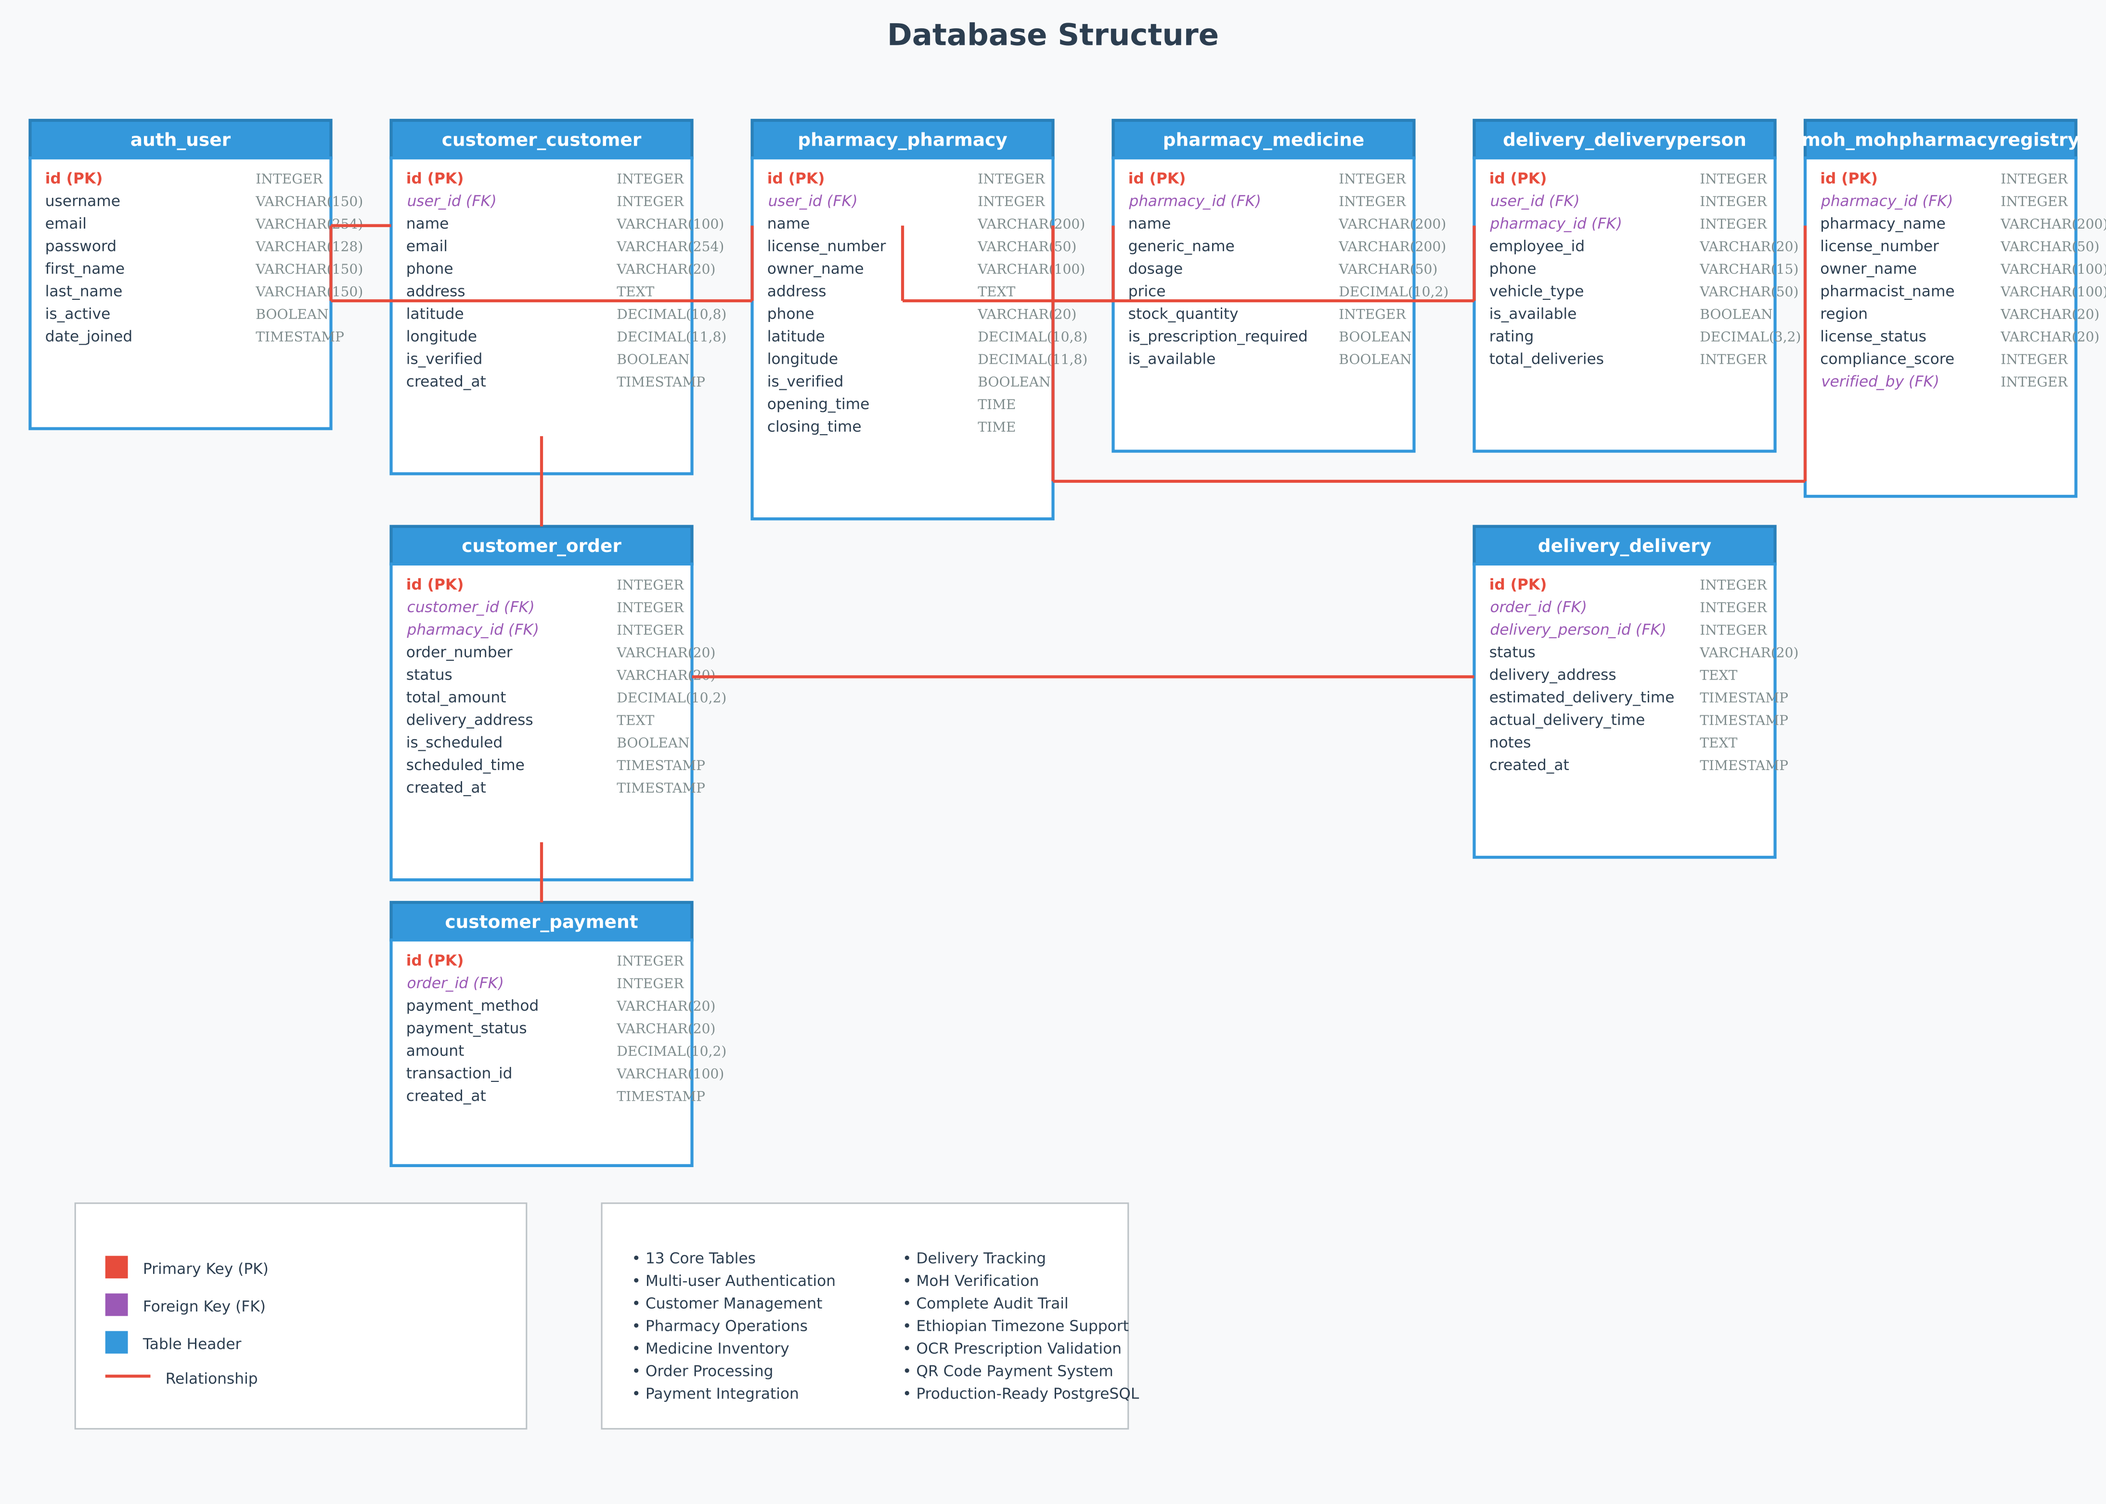
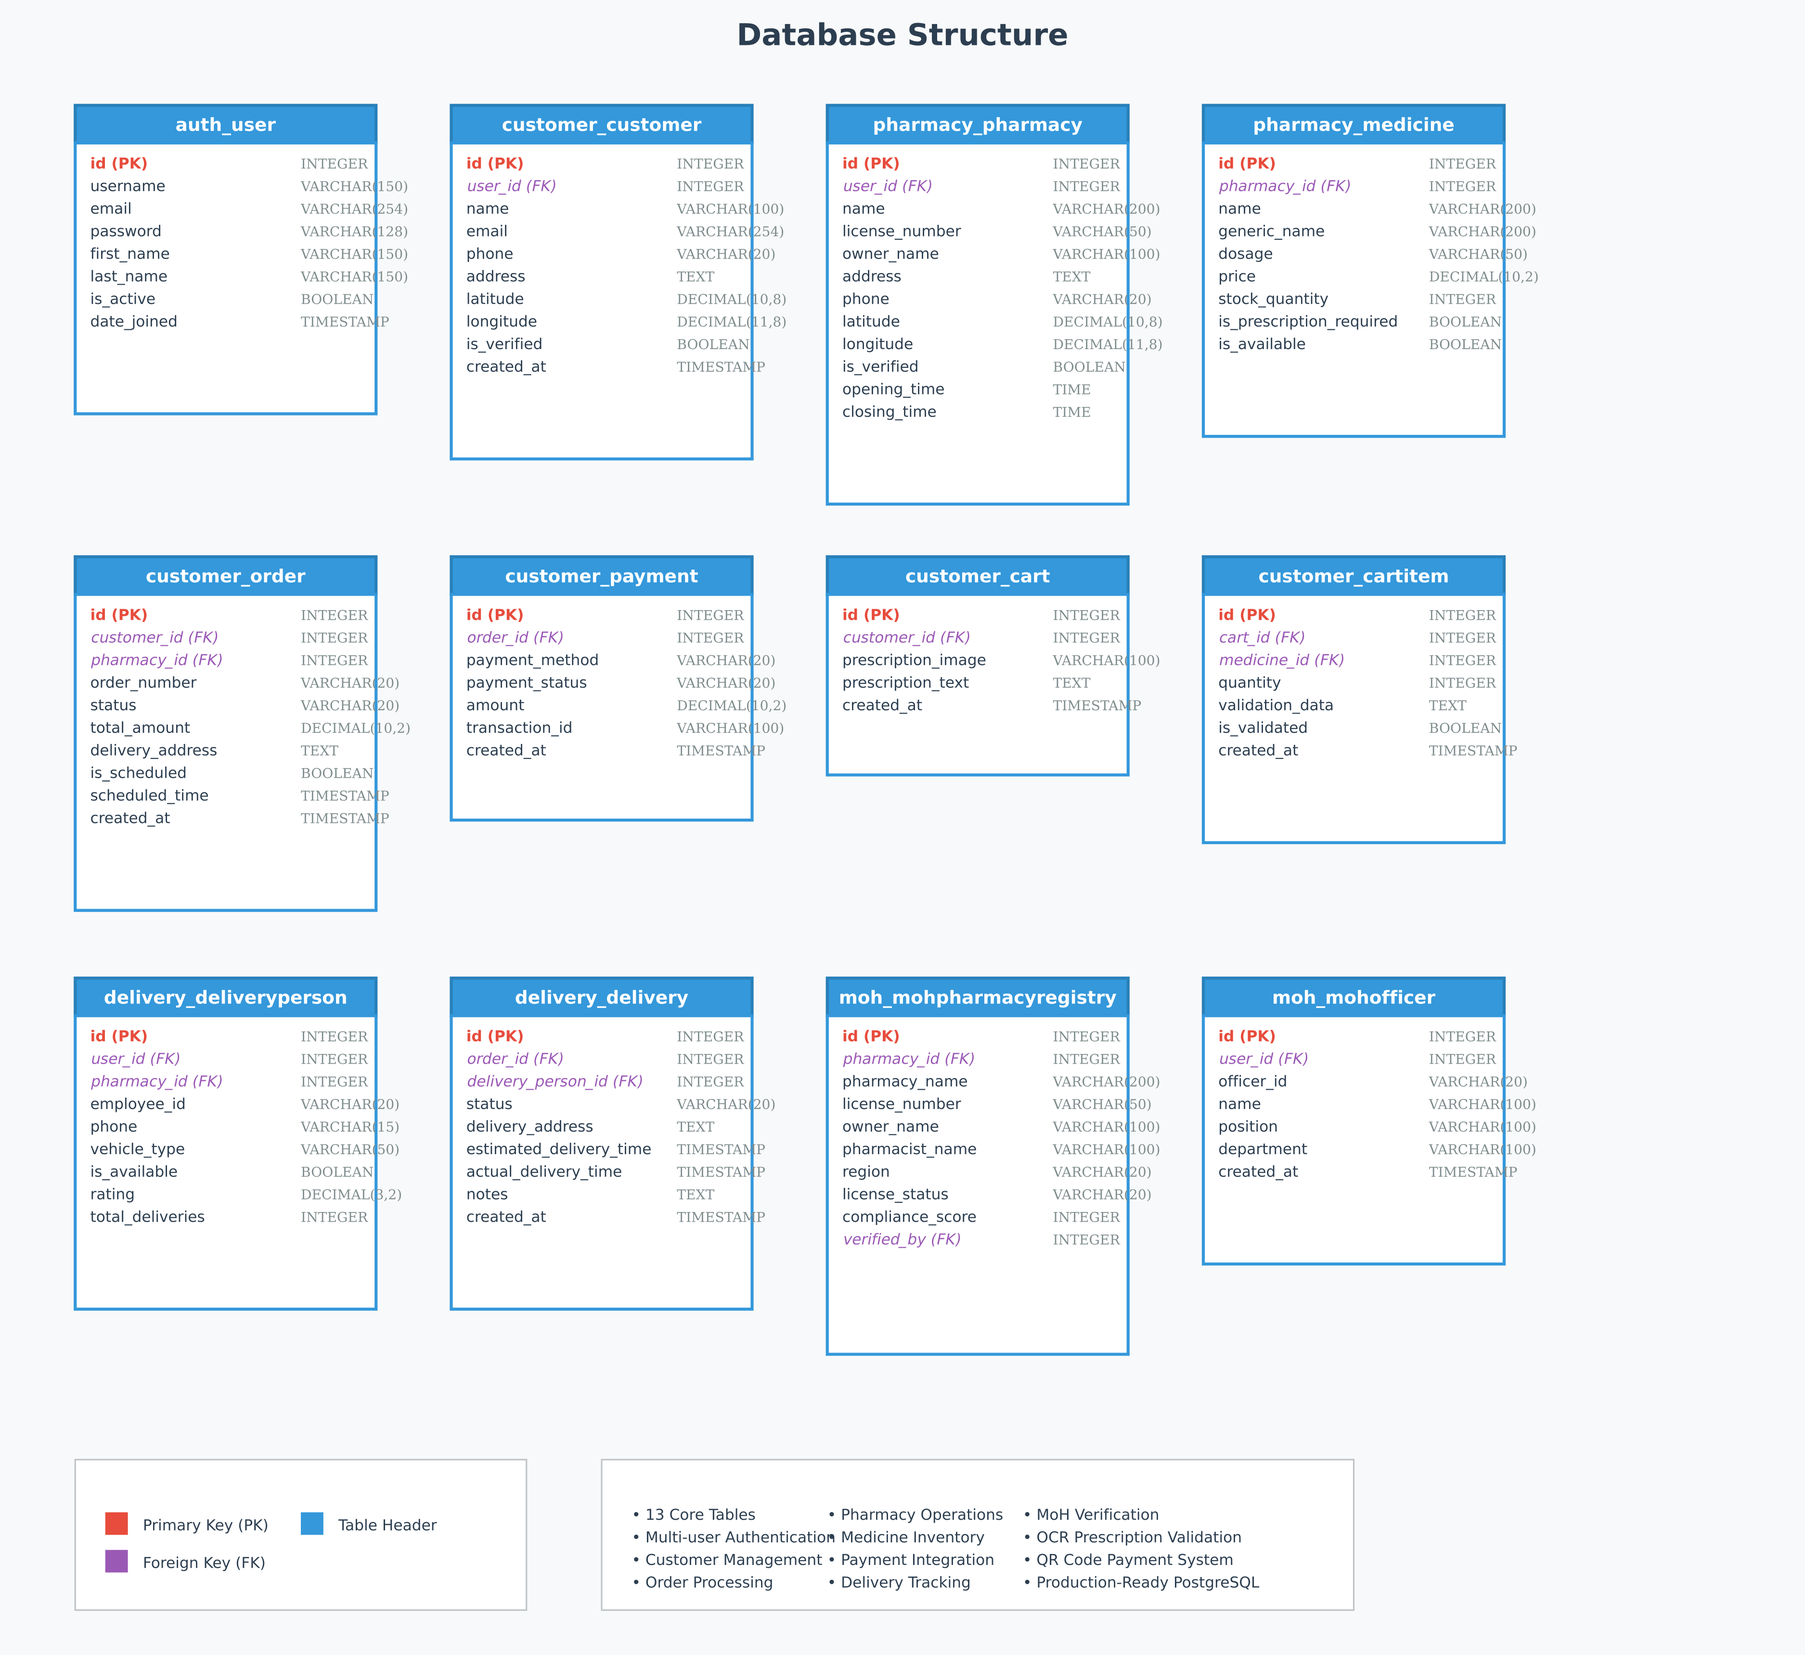
Adjust database diagram for improved clarity and proper table alignment
Refactor database SVG generation: adjust canvas size, table positions, and add customer_cart table.

Replit-Commit-Author: Agent
Replit-Commit-Session-Id: 049bb483-77e7-4104-a8ac-e9cb16096b01
Replit-Commit-Screenshot-Url: https://storage.googleapis.com/screenshot-production-us-central1/099855aa-fdc1-4c7a-b841-b0aadc4a57d0/953d0f03-541a-41b2-b32b-20188949d618.jpg

diff --git a/database_design_svg.py b/database_design_svg.py
@@ -9,7 +9,7 @@ def generate_database_svg():
     
     # SVG header
     svg_content = '''<?xml version="1.0" encoding="UTF-8"?>
-<svg width="1400" height="1000" xmlns="http://www.w3.org/2000/svg">
+<svg width="1200" height="1100" xmlns="http://www.w3.org/2000/svg">
   <defs>
     <style>
       .table-header { fill: #3498db; stroke: #2980b9; stroke-width: 2; }
@@ -19,20 +19,20 @@ def generate_database_svg():
       .primary-key { fill: #e74c3c; font-weight: bold; }
       .foreign-key { fill: #9b59b6; font-style: italic; }
       .field-type { fill: #7f8c8d; font-size: 9px; }
-      .connection-line { stroke: #e74c3c; stroke-width: 2; }
       .title { font-family: Arial, sans-serif; font-size: 20px; font-weight: bold; fill: #2c3e50; }
       .subtitle { font-family: Arial, sans-serif; font-size: 12px; fill: #7f8c8d; }
     </style>
   </defs>
   
   <!-- Background -->
-  <rect width="1400" height="1000" fill="#f8f9fa"/>
+  <rect width="1200" height="1100" fill="#f8f9fa"/>
   
   <!-- Title -->
-  <text x="700" y="30" text-anchor="middle" class="title">Database Structure</text>
+  <text x="600" y="30" text-anchor="middle" class="title">Database Structure</text>
   
+  <!-- Row 1 - User Management Tables -->
   <!-- auth_user table -->
-  <g transform="translate(20,80)">
+  <g transform="translate(50,70)">
     <rect width="200" height="25" class="table-header"/>
     <text x="100" y="17" text-anchor="middle" class="table-text">auth_user</text>
     <rect y="25" width="200" height="180" class="table-body"/>
@@ -55,7 +55,7 @@ def generate_database_svg():
   </g>
   
   <!-- customer_customer table -->
-  <g transform="translate(260,80)">
+  <g transform="translate(300,70)">
     <rect width="200" height="25" class="table-header"/>
     <text x="100" y="17" text-anchor="middle" class="table-text">customer_customer</text>
     <rect y="25" width="200" height="210" class="table-body"/>
@@ -82,7 +82,7 @@ def generate_database_svg():
   </g>
   
   <!-- pharmacy_pharmacy table -->
-  <g transform="translate(500,80)">
+  <g transform="translate(550,70)">
     <rect width="200" height="25" class="table-header"/>
     <text x="100" y="17" text-anchor="middle" class="table-text">pharmacy_pharmacy</text>
     <rect y="25" width="200" height="240" class="table-body"/>
@@ -113,7 +113,7 @@ def generate_database_svg():
   </g>
   
   <!-- pharmacy_medicine table -->
-  <g transform="translate(740,80)">
+  <g transform="translate(800,70)">
     <rect width="200" height="25" class="table-header"/>
     <text x="100" y="17" text-anchor="middle" class="table-text">pharmacy_medicine</text>
     <rect y="25" width="200" height="195" class="table-body"/>
@@ -137,8 +137,9 @@ def generate_database_svg():
     <text x="150" y="162" class="field-type">BOOLEAN</text>
   </g>
   
+  <!-- Row 2 - Order Management Tables -->
   <!-- customer_order table -->
-  <g transform="translate(260,350)">
+  <g transform="translate(50,370)">
     <rect width="200" height="25" class="table-header"/>
     <text x="100" y="17" text-anchor="middle" class="table-text">customer_order</text>
     <rect y="25" width="200" height="210" class="table-body"/>
@@ -165,7 +166,7 @@ def generate_database_svg():
   </g>
   
   <!-- customer_payment table -->
-  <g transform="translate(260,600)">
+  <g transform="translate(300,370)">
     <rect width="200" height="25" class="table-header"/>
     <text x="100" y="17" text-anchor="middle" class="table-text">customer_payment</text>
     <rect y="25" width="200" height="150" class="table-body"/>
@@ -185,8 +186,47 @@ def generate_database_svg():
     <text x="150" y="132" class="field-type">TIMESTAMP</text>
   </g>
   
+  <!-- customer_cart table -->
+  <g transform="translate(550,370)">
+    <rect width="200" height="25" class="table-header"/>
+    <text x="100" y="17" text-anchor="middle" class="table-text">customer_cart</text>
+    <rect y="25" width="200" height="120" class="table-body"/>
+    <text x="10" y="42" class="field-text primary-key">id (PK)</text>
+    <text x="150" y="42" class="field-type">INTEGER</text>
+    <text x="10" y="57" class="field-text foreign-key">customer_id (FK)</text>
+    <text x="150" y="57" class="field-type">INTEGER</text>
+    <text x="10" y="72" class="field-text">prescription_image</text>
+    <text x="150" y="72" class="field-type">VARCHAR(100)</text>
+    <text x="10" y="87" class="field-text">prescription_text</text>
+    <text x="150" y="87" class="field-type">TEXT</text>
+    <text x="10" y="102" class="field-text">created_at</text>
+    <text x="150" y="102" class="field-type">TIMESTAMP</text>
+  </g>
+  
+  <!-- customer_cartitem table -->
+  <g transform="translate(800,370)">
+    <rect width="200" height="25" class="table-header"/>
+    <text x="100" y="17" text-anchor="middle" class="table-text">customer_cartitem</text>
+    <rect y="25" width="200" height="165" class="table-body"/>
+    <text x="10" y="42" class="field-text primary-key">id (PK)</text>
+    <text x="150" y="42" class="field-type">INTEGER</text>
+    <text x="10" y="57" class="field-text foreign-key">cart_id (FK)</text>
+    <text x="150" y="57" class="field-type">INTEGER</text>
+    <text x="10" y="72" class="field-text foreign-key">medicine_id (FK)</text>
+    <text x="150" y="72" class="field-type">INTEGER</text>
+    <text x="10" y="87" class="field-text">quantity</text>
+    <text x="150" y="87" class="field-type">INTEGER</text>
+    <text x="10" y="102" class="field-text">validation_data</text>
+    <text x="150" y="102" class="field-type">TEXT</text>
+    <text x="10" y="117" class="field-text">is_validated</text>
+    <text x="150" y="117" class="field-type">BOOLEAN</text>
+    <text x="10" y="132" class="field-text">created_at</text>
+    <text x="150" y="132" class="field-type">TIMESTAMP</text>
+  </g>
+  
+  <!-- Row 3 - Delivery & MoH Tables -->
   <!-- delivery_deliveryperson table -->
-  <g transform="translate(980,80)">
+  <g transform="translate(50,650)">
     <rect width="200" height="25" class="table-header"/>
     <text x="100" y="17" text-anchor="middle" class="table-text">delivery_deliveryperson</text>
     <rect y="25" width="200" height="195" class="table-body"/>
@@ -211,7 +251,7 @@ def generate_database_svg():
   </g>
   
   <!-- delivery_delivery table -->
-  <g transform="translate(980,350)">
+  <g transform="translate(300,650)">
     <rect width="200" height="25" class="table-header"/>
     <text x="100" y="17" text-anchor="middle" class="table-text">delivery_delivery</text>
     <rect y="25" width="200" height="195" class="table-body"/>
@@ -236,58 +276,56 @@ def generate_database_svg():
   </g>
   
   <!-- moh_mohpharmacyregistry table -->
-  <g transform="translate(1200,80)">
-    <rect width="180" height="25" class="table-header"/>
-    <text x="90" y="17" text-anchor="middle" class="table-text">moh_mohpharmacyregistry</text>
-    <rect y="25" width="180" height="225" class="table-body"/>
+  <g transform="translate(550,650)">
+    <rect width="200" height="25" class="table-header"/>
+    <text x="100" y="17" text-anchor="middle" class="table-text">moh_mohpharmacyregistry</text>
+    <rect y="25" width="200" height="225" class="table-body"/>
     <text x="10" y="42" class="field-text primary-key">id (PK)</text>
-    <text x="130" y="42" class="field-type">INTEGER</text>
+    <text x="150" y="42" class="field-type">INTEGER</text>
     <text x="10" y="57" class="field-text foreign-key">pharmacy_id (FK)</text>
-    <text x="130" y="57" class="field-type">INTEGER</text>
+    <text x="150" y="57" class="field-type">INTEGER</text>
     <text x="10" y="72" class="field-text">pharmacy_name</text>
-    <text x="130" y="72" class="field-type">VARCHAR(200)</text>
+    <text x="150" y="72" class="field-type">VARCHAR(200)</text>
     <text x="10" y="87" class="field-text">license_number</text>
-    <text x="130" y="87" class="field-type">VARCHAR(50)</text>
+    <text x="150" y="87" class="field-type">VARCHAR(50)</text>
     <text x="10" y="102" class="field-text">owner_name</text>
-    <text x="130" y="102" class="field-type">VARCHAR(100)</text>
+    <text x="150" y="102" class="field-type">VARCHAR(100)</text>
     <text x="10" y="117" class="field-text">pharmacist_name</text>
-    <text x="130" y="117" class="field-type">VARCHAR(100)</text>
+    <text x="150" y="117" class="field-type">VARCHAR(100)</text>
     <text x="10" y="132" class="field-text">region</text>
-    <text x="130" y="132" class="field-type">VARCHAR(20)</text>
+    <text x="150" y="132" class="field-type">VARCHAR(20)</text>
     <text x="10" y="147" class="field-text">license_status</text>
-    <text x="130" y="147" class="field-type">VARCHAR(20)</text>
+    <text x="150" y="147" class="field-type">VARCHAR(20)</text>
     <text x="10" y="162" class="field-text">compliance_score</text>
-    <text x="130" y="162" class="field-type">INTEGER</text>
+    <text x="150" y="162" class="field-type">INTEGER</text>
     <text x="10" y="177" class="field-text foreign-key">verified_by (FK)</text>
-    <text x="130" y="177" class="field-type">INTEGER</text>
+    <text x="150" y="177" class="field-type">INTEGER</text>
   </g>
   
-  <!-- Connection lines -->
-  <line x1="220" y1="150" x2="260" y2="150" class="connection-line"/>
-  <line x1="220" y1="150" x2="220" y2="200" class="connection-line"/>
-  <line x1="220" y1="200" x2="500" y2="200" class="connection-line"/>
-  <line x1="500" y1="200" x2="500" y2="150" class="connection-line"/>
-  
-  <line x1="600" y1="150" x2="600" y2="200" class="connection-line"/>
-  <line x1="600" y1="200" x2="740" y2="200" class="connection-line"/>
-  <line x1="740" y1="200" x2="740" y2="150" class="connection-line"/>
-  
-  <line x1="360" y1="290" x2="360" y2="350" class="connection-line"/>
-  <line x1="360" y1="560" x2="360" y2="600" class="connection-line"/>
-  
-  <line x1="700" y1="150" x2="700" y2="200" class="connection-line"/>
-  <line x1="700" y1="200" x2="980" y2="200" class="connection-line"/>
-  <line x1="980" y1="200" x2="980" y2="150" class="connection-line"/>
-  
-  <line x1="460" y1="450" x2="980" y2="450" class="connection-line"/>
-  
-  <line x1="700" y1="150" x2="700" y2="320" class="connection-line"/>
-  <line x1="700" y1="320" x2="1200" y2="320" class="connection-line"/>
-  <line x1="1200" y1="320" x2="1200" y2="150" class="connection-line"/>
+  <!-- moh_mohofficer table -->
+  <g transform="translate(800,650)">
+    <rect width="200" height="25" class="table-header"/>
+    <text x="100" y="17" text-anchor="middle" class="table-text">moh_mohofficer</text>
+    <rect y="25" width="200" height="165" class="table-body"/>
+    <text x="10" y="42" class="field-text primary-key">id (PK)</text>
+    <text x="150" y="42" class="field-type">INTEGER</text>
+    <text x="10" y="57" class="field-text foreign-key">user_id (FK)</text>
+    <text x="150" y="57" class="field-type">INTEGER</text>
+    <text x="10" y="72" class="field-text">officer_id</text>
+    <text x="150" y="72" class="field-type">VARCHAR(20)</text>
+    <text x="10" y="87" class="field-text">name</text>
+    <text x="150" y="87" class="field-type">VARCHAR(100)</text>
+    <text x="10" y="102" class="field-text">position</text>
+    <text x="150" y="102" class="field-type">VARCHAR(100)</text>
+    <text x="10" y="117" class="field-text">department</text>
+    <text x="150" y="117" class="field-type">VARCHAR(100)</text>
+    <text x="10" y="132" class="field-text">created_at</text>
+    <text x="150" y="132" class="field-type">TIMESTAMP</text>
+  </g>
   
   <!-- Legend -->
-  <g transform="translate(50,800)">
-    <rect width="300" height="150" fill="white" stroke="#bdc3c7" stroke-width="1"/>
+  <g transform="translate(50,970)">
+    <rect width="300" height="100" fill="white" stroke="#bdc3c7" stroke-width="1"/>
     <text x="150" y="20" text-anchor="middle" class="table-text" fill="#2c3e50">Legend</text>
     
     <rect x="20" y="35" width="15" height="15" fill="#e74c3c"/>
@@ -296,31 +334,26 @@ def generate_database_svg():
     <rect x="20" y="60" width="15" height="15" fill="#9b59b6"/>
     <text x="45" y="72" class="field-text">Foreign Key (FK)</text>
     
-    <rect x="20" y="85" width="15" height="15" fill="#3498db"/>
-    <text x="45" y="97" class="field-text">Table Header</text>
-    
-    <line x1="20" y1="115" x2="50" y2="115" stroke="#e74c3c" stroke-width="2"/>
-    <text x="60" y="120" class="field-text">Relationship</text>
+    <rect x="150" y="35" width="15" height="15" fill="#3498db"/>
+    <text x="175" y="47" class="field-text">Table Header</text>
   </g>
   
   <!-- Summary -->
-  <g transform="translate(400,800)">
-    <rect width="350" height="150" fill="white" stroke="#bdc3c7" stroke-width="1"/>
-    <text x="175" y="20" text-anchor="middle" class="table-text" fill="#2c3e50">Database Summary</text>
+  <g transform="translate(400,970)">
+    <rect width="500" height="100" fill="white" stroke="#bdc3c7" stroke-width="1"/>
+    <text x="250" y="20" text-anchor="middle" class="table-text" fill="#2c3e50">Database Summary</text>
     <text x="20" y="40" class="field-text">• 13 Core Tables</text>
     <text x="20" y="55" class="field-text">• Multi-user Authentication</text>
     <text x="20" y="70" class="field-text">• Customer Management</text>
-    <text x="20" y="85" class="field-text">• Pharmacy Operations</text>
-    <text x="20" y="100" class="field-text">• Medicine Inventory</text>
-    <text x="20" y="115" class="field-text">• Order Processing</text>
-    <text x="20" y="130" class="field-text">• Payment Integration</text>
-    <text x="200" y="40" class="field-text">• Delivery Tracking</text>
-    <text x="200" y="55" class="field-text">• MoH Verification</text>
-    <text x="200" y="70" class="field-text">• Complete Audit Trail</text>
-    <text x="200" y="85" class="field-text">• Ethiopian Timezone Support</text>
-    <text x="200" y="100" class="field-text">• OCR Prescription Validation</text>
-    <text x="200" y="115" class="field-text">• QR Code Payment System</text>
-    <text x="200" y="130" class="field-text">• Production-Ready PostgreSQL</text>
+    <text x="20" y="85" class="field-text">• Order Processing</text>
+    <text x="150" y="40" class="field-text">• Pharmacy Operations</text>
+    <text x="150" y="55" class="field-text">• Medicine Inventory</text>
+    <text x="150" y="70" class="field-text">• Payment Integration</text>
+    <text x="150" y="85" class="field-text">• Delivery Tracking</text>
+    <text x="280" y="40" class="field-text">• MoH Verification</text>
+    <text x="280" y="55" class="field-text">• OCR Prescription Validation</text>
+    <text x="280" y="70" class="field-text">• QR Code Payment System</text>
+    <text x="280" y="85" class="field-text">• Production-Ready PostgreSQL</text>
   </g>
   
 </svg>'''
@@ -336,7 +369,7 @@ def convert_svg_to_png():
         f.write(svg_content)
     
     print("✅ PostgreSQL Database Design diagram saved as 'ethiopian_pharmacy_postgresql_database_design.svg'")
-    print("📊 Diagram includes all 13 core tables with relationships and field details")
+    print("📊 Diagram includes all 13 core tables with complete field details")
     print("🎨 SVG format suitable for documentation and presentations")
     print("💡 To convert to PNG, use: convert ethiopian_pharmacy_postgresql_database_design.svg ethiopian_pharmacy_postgresql_database_design.png")
 
